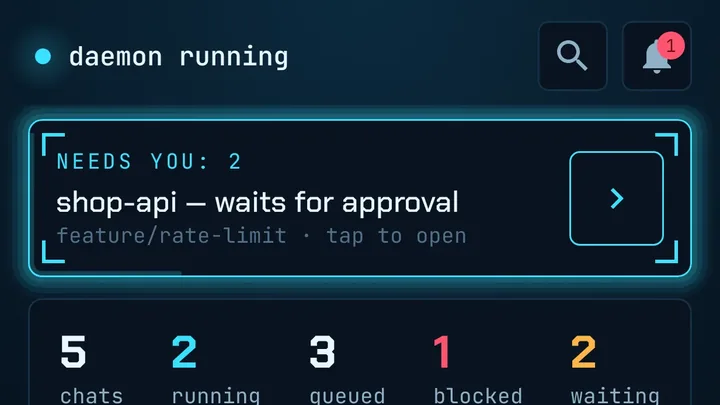
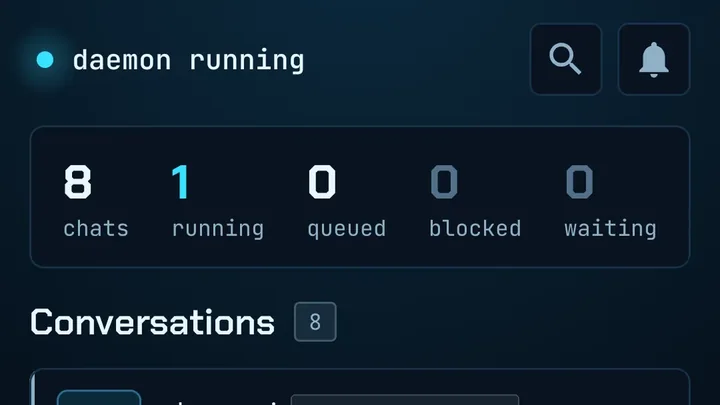
fix(web): screenshoty ccc Android z telefonu (anonymizované) (#19)
Dashboard, konverzace a menu pořízené na skutečném zařízení se
současným UI; názvy projektů nahrazeny vymyšlenými, stavový
a navigační pruh telefonu oříznut. Prázdné obrazovky schvalování
a úkolů nahrazeno menu.

Claude-Session: https://claude.ai/code/session_01SVGUkj7oN34QWw7jvsNm29

diff --git a/apps/ccc-android.html b/apps/ccc-android.html
@@ -29,7 +29,7 @@ next: [ccc, repo-doctor]
             </ul>
           </div>
           <figure class="app-hero__shot shot shot--portrait">
-            <img src="/assets/apps/ccc-android/dashboard.webp" alt="ccc Android app dashboard with conversations that need you" width="1233" height="2673">
+            <img src="/assets/apps/ccc-android/dashboard.webp" alt="ccc Android app dashboard with conversations that need you" width="1080" height="2152">
             <figcaption>Dashboard — what needs you, and every conversation at a glance.</figcaption>
           </figure>
         </div>
@@ -96,20 +96,16 @@ next: [ccc, repo-doctor]
         </div>
         <div class="shots">
           <figure class="shot shot--portrait reveal">
-            <img src="/assets/apps/ccc-android/dashboard.webp" alt="ccc Android app dashboard with conversations that need you" width="1233" height="2673" loading="lazy">
+            <img src="/assets/apps/ccc-android/dashboard.webp" alt="ccc Android app dashboard with conversations that need you" width="1080" height="2152" loading="lazy">
             <figcaption>Dashboard — what needs you, and every conversation at a glance.</figcaption>
           </figure>
           <figure class="shot shot--portrait reveal">
-            <img src="/assets/apps/ccc-android/conversations.webp" alt="ccc Android app conversations list" width="1233" height="2673" loading="lazy">
+            <img src="/assets/apps/ccc-android/conversations.webp" alt="ccc Android app conversations list" width="1080" height="2152" loading="lazy">
             <figcaption>Conversations — grouped by project, with state, queue and goal loop.</figcaption>
           </figure>
           <figure class="shot shot--portrait reveal">
-            <img src="/assets/apps/ccc-android/approvals.webp" alt="ccc Android app approvals screen" width="1233" height="1000" loading="lazy">
-            <figcaption>Approvals — approve or deny tool calls from anywhere.</figcaption>
-          </figure>
-          <figure class="shot shot--portrait reveal">
-            <img src="/assets/apps/ccc-android/tasks.webp" alt="ccc Android app task queue" width="1233" height="2673" loading="lazy">
-            <figcaption>Task queue — the same queue as in the terminal.</figcaption>
+            <img src="/assets/apps/ccc-android/menu.webp" alt="ccc Android app side menu with approvals, task queue, archive, routines, agents and usage limits" width="1080" height="2152" loading="lazy">
+            <figcaption>Menu — approvals, task queue, routines, agents and your usage limits.</figcaption>
           </figure>
         </div>
       </div>
